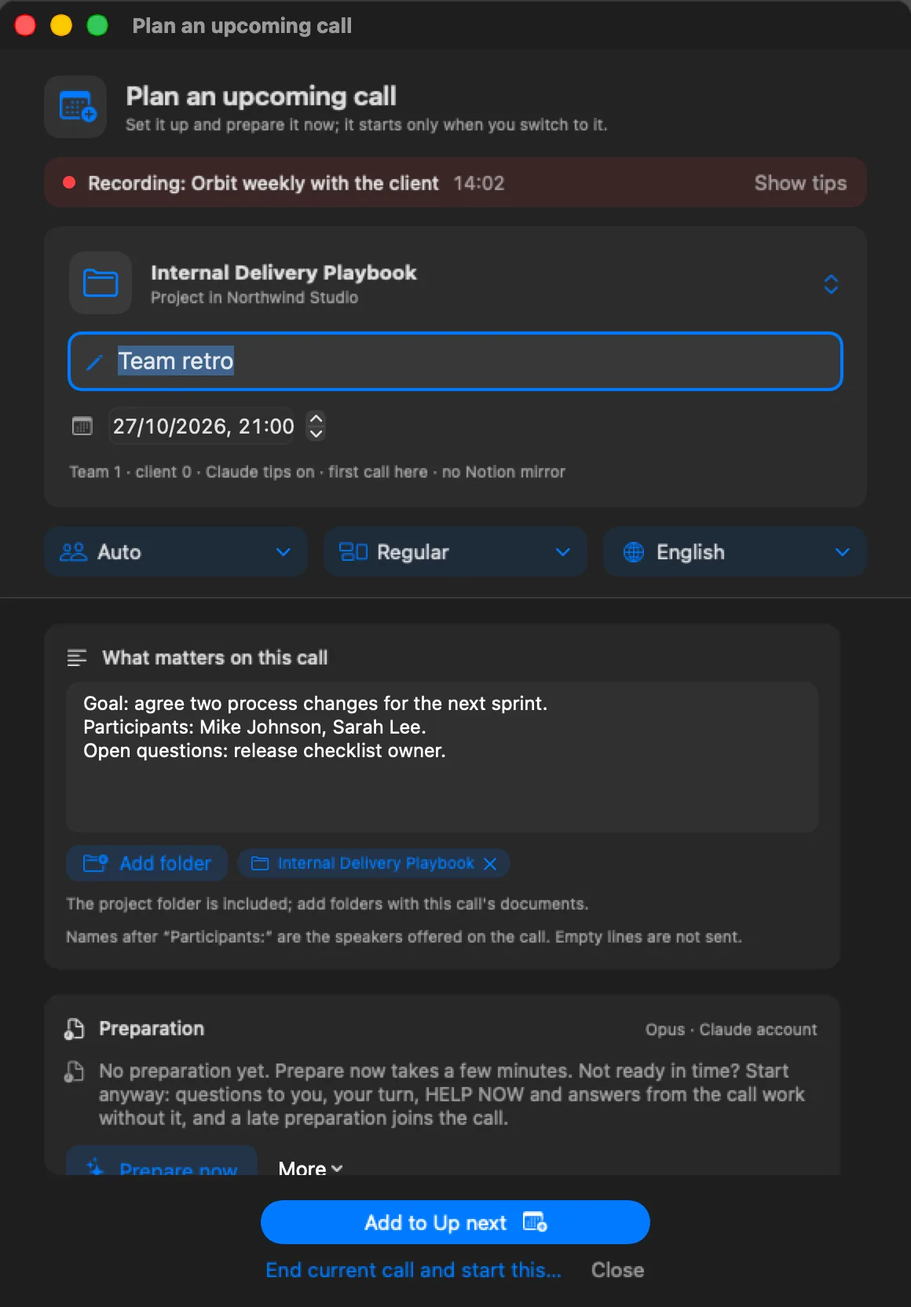
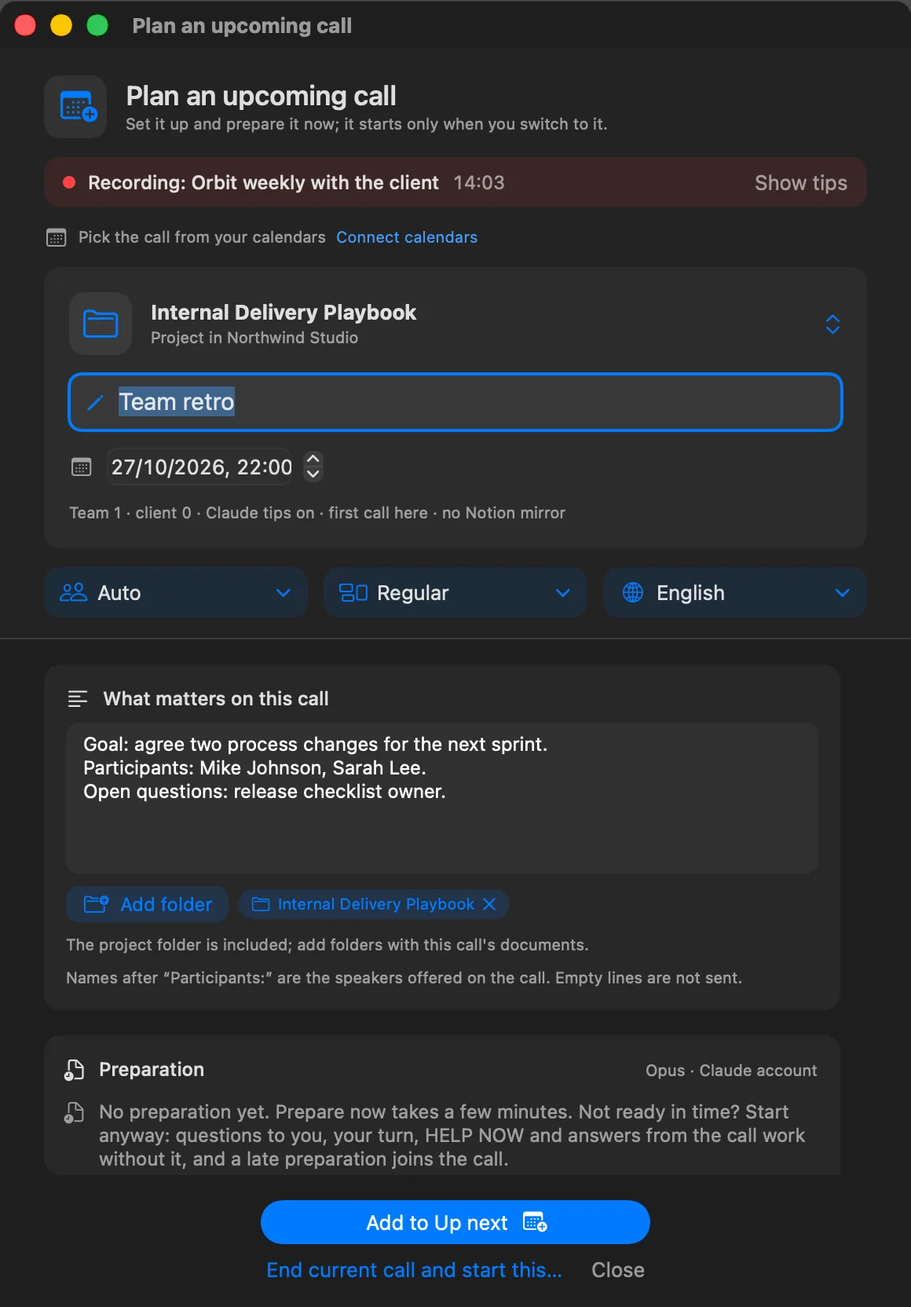
Live Tips 0.6.6 on the site: Claude and local AI block, Home and calendars
- /live-tips/: "Claude and local AI, each for its job" near the top; Home and calendars section; Home shot.
- Details: proactive button, top bar order, calendars and Home; compare and changelog updated; shots refreshed.

Claude-Session: https://claude.ai/code/session_011gj7yXV1CHodtL8oe3gkkZ

diff --git a/src/styles/global.css b/src/styles/global.css
@@ -510,3 +510,13 @@ html[data-theme='light'] .ltshot__img { box-shadow: 0 18px 44px rgba(20, 22, 28,
   .prose th:first-child, .prose td:first-child { position: sticky; left: 0; background: var(--bg); min-width: 110px; z-index: 1; }
   .product-hero .btns { display: grid; grid-template-columns: 1fr; }
 }
+
+/* 2026-10-27 (owner): Live Tips page, near the top: which AI does what (local models on the Mac, Claude in the cloud) */
+.aimix { border: 1px solid var(--line); border-left: 3px solid var(--accent); border-radius: 12px; padding: 18px 20px; margin: 4px 0 28px; background: var(--surface, transparent); }
+.aimix__title { margin: 0 0 4px; font-size: 1.15rem; }
+.aimix__lead { margin: 0 0 14px; color: var(--text-2); }
+.aimix__cols { display: grid; grid-template-columns: repeat(auto-fit, minmax(260px, 1fr)); gap: 14px 24px; }
+.aimix__col h4 { margin: 0 0 6px; font-size: 0.95rem; }
+.aimix__col ul { margin: 0; padding-left: 18px; color: var(--text-2); font-size: 0.95rem; }
+.aimix__col li { margin: 2px 0; }
+.aimix__note { margin: 12px 0 0; font-size: 0.88rem; color: var(--text-3); }

diff --git a/src/content/pages/uk/live-tips.md b/src/content/pages/uk/live-tips.md
@@ -7,8 +7,24 @@ facts:
   - { k: Звук, v: "Лишається на вашому Маку" }
   - { k: Вартість, v: "Застосунок безкоштовний, Claude близько $0.2-0.8 за дзвінок" }
   - { k: Нотатки йдуть у, v: "Notion і папку проєкту" }
-  - { k: Статус, v: "бета 0.6.0" }
+  - { k: Статус, v: "бета 0.6.6" }
 ---
+
+<div class="aimix">
+<h3 class="aimix__title">Claude і локальний AI, кожен для своєї роботи</h3>
+<p class="aimix__lead">Те, що має бути миттєвим і приватним, працює на вашому Маку. Те, що потребує думання, йде до Claude, лише текстом.</p>
+<div class="aimix__cols">
+<div class="aimix__col"><h4>На Маку (локальні моделі, безкоштовно)</h4><ul>
+<li><b>Whisper</b> перетворює мову на текст; аудіо не покидає Мак.</li>
+<li><b>Local AI</b> (невелика модель пошуку, вбудована або Ollama) за долю секунди знаходить факти й картки за змістом і шукає по файлах проєкту.</li>
+<li><b>Голосова модель</b> розрізняє спікерів.</li></ul></div>
+<div class="aimix__col"><h4>Claude (хмара, ваш ключ або план)</h4><ul>
+<li>Підказки і готова фраза, коли питають вас, HELP NOW, відповіді на ваші питання.</li>
+<li>Картина дзвінка: тема, що на вас, рішення.</li>
+<li>Prepare now і глибокий пошук (Claude Code, лише читання), підсумок у Notion.</li></ul></div>
+</div>
+<p class="aimix__note">Claude вимкнено для проєкту? Тоді працює лише частина на Маку: транскрипт, миттєві факти і пошук.</p>
+</div>
 
 ## Два способи запуску
 
@@ -45,6 +61,7 @@ facts:
 Справжні знімки застосунку на демо-даних. Картинки йдуть за світлою чи темною темою сайту.
 
 <div class="gallery">
+<figure class="ltshot ltshot--wide"><img class="ltshot__img ltshot--dark" src="/live-tips/shots/home-dark.webp" alt="" loading="lazy" decoding="async" /><img class="ltshot__img ltshot--light" src="/live-tips/shots/home-light.webp" alt="" loading="lazy" decoding="async" /><figcaption><b>Home.</b> Дзвінки попереду з календарів і Далі (накладки позначено), проведені дзвінки з Notion, транскриптом і папкою, і стан усього, що потрібно для дзвінка.</figcaption></figure>
 <figure class="ltshot ltshot--wide"><img class="ltshot__img ltshot--dark" src="/live-tips/shots/tips-dark.webp" alt="" loading="lazy" decoding="async" /><img class="ltshot__img ltshot--light" src="/live-tips/shots/tips-light.webp" alt="" loading="lazy" decoding="async" /><figcaption><b>На дзвінку.</b> Транскрипт з іменами спікерів (Команда чи Клієнт), що на вас, підсумок дзвінка, відповіді на ваші питання і кнопка Help.</figcaption></figure>
 <figure class="ltshot"><img class="ltshot__img ltshot--dark" src="/live-tips/shots/start-call-dark.webp" alt="" loading="lazy" decoding="async" /><img class="ltshot__img ltshot--light" src="/live-tips/shots/start-call-light.webp" alt="" loading="lazy" decoding="async" /><figcaption><b>Start call.</b> Проєкт, назва і час дзвінка, аудиторія, тип і мови, що важливо на цьому дзвінку і які папки прочитати, Prepare now.</figcaption></figure>
 <figure class="ltshot"><img class="ltshot__img ltshot--dark" src="/live-tips/shots/plan-call-dark.webp" alt="" loading="lazy" decoding="async" /><img class="ltshot__img ltshot--light" src="/live-tips/shots/plan-call-light.webp" alt="" loading="lazy" decoding="async" /><figcaption><b>Далі.</b> Під час дзвінка плануйте наступний: налаштуйте і підготуйте зараз, перейдіть на нього, коли цей закінчиться.</figcaption></figure>
@@ -54,6 +71,12 @@ facts:
 <figure class="ltshot"><img class="ltshot__img ltshot--dark" src="/live-tips/shots/settings-notion-dark.webp" alt="" loading="lazy" decoding="async" /><img class="ltshot__img ltshot--light" src="/live-tips/shots/settings-notion-light.webp" alt="" loading="lazy" decoding="async" /><figcaption><b>Налаштування: Notion.</b> Сторінка зустрічі після кожного дзвінка, куди вона йде, і необовʼязкова локальна копія Notion.</figcaption></figure>
 <figure class="ltshot"><img class="ltshot__img ltshot--dark" src="/live-tips/shots/settings-projects-dark.webp" alt="" loading="lazy" decoding="async" /><img class="ltshot__img ltshot--light" src="/live-tips/shots/settings-projects-light.webp" alt="" loading="lazy" decoding="async" /><figcaption><b>Налаштування: Projects.</b> Воркспейси і проєкти з вашої робочої папки; позначені зʼявляються в Start call.</figcaption></figure>
 </div>
+
+## Home і ваші календарі
+
+**Home** це головне вікно аппки: дзвінок, що йде зараз, дзвінки попереду з календарів і зі списку Далі з їхньою підготовкою, і проведені дзвінки зі сторінкою в Notion, транскриптом і папкою (прибрати зі списку можна ×; файли лишаються). Внизу: ключ Claude, витрати за місяць проти ліміту, копія Notion, локальний AI і календарі.
+
+**Календарі через macOS, кілька акаунтів одразу.** Додайте акаунти Google і Microsoft у System Settings > Internet Accounts, потім у Live Tips Settings > Calendars позначте календарі, де ваші дзвінки. Нічого не треба встановлювати і ніде окремо входити; Live Tips лише читає. Дві-три зустрічі на один час це нормально: Home їх позначає, а ви готуєте і запускаєте ту, на яку реально йдете. Регулярна зустріч стартує з налаштувань і тексту "що важливо" її останнього дзвінка, тож ви лише коригуєте.
 
 ## Дзвінки один за одним: Далі
 
@@ -80,6 +103,6 @@ facts:
 <div class="card"><h3 class="card__title"><a href="https://github.com/bodco/live-tips">Код і релізи</a></h3><p class="card__text">Застосунок, скіл, записувач і повний посібник на GitHub. Що змінилося: <a href="/uk/changelog/">версії</a>.</p></div>
 </div>
 
-Ще немає: звʼязку з календарем, пропозиції почати запис, коли починається дзвінок, підсумку в Google Docs. У планах; поки кожен дзвінок починається з рядка меню.
+Ще немає: підсумку в Google Docs чи Word у вашому Drive або OneDrive. У планах.
 
 <p class="smallprint">Ваші дзвінки і ваші дані: <a href="/uk/live-tips/privacy/">політика конфіденційності</a> і <a href="/uk/live-tips/terms/">умови використання</a>.</p>

diff --git a/src/content/pages/en/live-tips.md b/src/content/pages/en/live-tips.md
@@ -7,8 +7,24 @@ facts:
   - { k: Audio, v: "Stays on your Mac" }
   - { k: Cost, v: "Free app, about $0.2-0.8 of Claude per call" }
   - { k: Notes go to, v: "Notion and your project folder" }
-  - { k: Status, v: "beta 0.6.0" }
+  - { k: Status, v: "beta 0.6.6" }
 ---
+
+<div class="aimix">
+<h3 class="aimix__title">Claude and local AI, each for its job</h3>
+<p class="aimix__lead">What must be instant and private runs on your Mac. What needs real thinking goes to Claude, as text only.</p>
+<div class="aimix__cols">
+<div class="aimix__col"><h4>On your Mac (local models, free)</h4><ul>
+<li><b>Whisper</b> turns speech into text; audio never leaves the Mac.</li>
+<li><b>Local AI</b> (a small search model, built in or Ollama) finds facts and cards by meaning in under a second and searches your project files.</li>
+<li><b>A voice model</b> tells speakers apart.</li></ul></div>
+<div class="aimix__col"><h4>Claude (cloud, your key or plan)</h4><ul>
+<li>Tips and the ready phrase when you are asked, HELP NOW, answers to your questions.</li>
+<li>The picture of the call: topic, what is on you, decisions.</li>
+<li>Prepare now and deep search (Claude Code, read-only), the Notion summary.</li></ul></div>
+</div>
+<p class="aimix__note">Claude off for a project? It runs on the Mac part only: transcript, instant facts and search.</p>
+</div>
 
 ## Two ways to run it
 
@@ -45,6 +61,7 @@ Both run the same rules and the same recorder, so the tips behave the same way. 
 Real screenshots of the app on demo data. The pictures follow the site's light or dark theme.
 
 <div class="gallery">
+<figure class="ltshot ltshot--wide"><img class="ltshot__img ltshot--dark" src="/live-tips/shots/home-dark.webp" alt="" loading="lazy" decoding="async" /><img class="ltshot__img ltshot--light" src="/live-tips/shots/home-light.webp" alt="" loading="lazy" decoding="async" /><figcaption><b>Home.</b> The calls ahead from your calendars and Up next (overlaps marked), the calls already held with Notion, transcript and folder, and what a call needs.</figcaption></figure>
 <figure class="ltshot ltshot--wide"><img class="ltshot__img ltshot--dark" src="/live-tips/shots/tips-dark.webp" alt="" loading="lazy" decoding="async" /><img class="ltshot__img ltshot--light" src="/live-tips/shots/tips-light.webp" alt="" loading="lazy" decoding="async" /><figcaption><b>On the call.</b> The transcript with named speakers (Team or Client), what is on you, the call summary, answers to your questions and the Help button.</figcaption></figure>
 <figure class="ltshot"><img class="ltshot__img ltshot--dark" src="/live-tips/shots/start-call-dark.webp" alt="" loading="lazy" decoding="async" /><img class="ltshot__img ltshot--light" src="/live-tips/shots/start-call-light.webp" alt="" loading="lazy" decoding="async" /><figcaption><b>Start call.</b> The project, the call's name and time, audience, type and languages, what matters on this call and the folders to read, Prepare now.</figcaption></figure>
 <figure class="ltshot"><img class="ltshot__img ltshot--dark" src="/live-tips/shots/plan-call-dark.webp" alt="" loading="lazy" decoding="async" /><img class="ltshot__img ltshot--light" src="/live-tips/shots/plan-call-light.webp" alt="" loading="lazy" decoding="async" /><figcaption><b>Up next.</b> During a call, plan the next one: set it up and prepare it now, switch to it when this call ends.</figcaption></figure>
@@ -54,6 +71,12 @@ Real screenshots of the app on demo data. The pictures follow the site's light o
 <figure class="ltshot"><img class="ltshot__img ltshot--dark" src="/live-tips/shots/settings-notion-dark.webp" alt="" loading="lazy" decoding="async" /><img class="ltshot__img ltshot--light" src="/live-tips/shots/settings-notion-light.webp" alt="" loading="lazy" decoding="async" /><figcaption><b>Settings: Notion.</b> The meeting page after each call, where it goes, and the optional local copy of Notion.</figcaption></figure>
 <figure class="ltshot"><img class="ltshot__img ltshot--dark" src="/live-tips/shots/settings-projects-dark.webp" alt="" loading="lazy" decoding="async" /><img class="ltshot__img ltshot--light" src="/live-tips/shots/settings-projects-light.webp" alt="" loading="lazy" decoding="async" /><figcaption><b>Settings: Projects.</b> Workspaces and projects found in your work folder; ticked ones show up in Start call.</figcaption></figure>
 </div>
+
+## Home and your calendars
+
+**Home** is the app's main window: the call that is live, the calls ahead from your calendars and Up next with their preparation, and the calls already held with their Notion page, transcript and folder (remove one from the list with ×; the files stay). At the bottom: the Claude key, this month's spend against your limit, the Notion copy, local AI and the calendars.
+
+**Calendars through macOS, several accounts at once.** Add your Google and Microsoft accounts in System Settings > Internet Accounts, then Settings > Calendars in Live Tips: tick the calendars that have your calls. Nothing to install and no extra sign-in; Live Tips only reads. Two or three meetings at the same time are normal: Home marks them, and you prepare and start the one you actually go to. A regular meeting starts from the settings and the "what matters" text of its last call, so you only correct them.
 
 ## Back-to-back calls: Up next
 
@@ -80,6 +103,6 @@ Those are mature note takers with team workspaces, video and many integrations. 
 <div class="card"><h3 class="card__title"><a href="https://github.com/bodco/live-tips">Code and releases</a></h3><p class="card__text">The app, the skill, the recorder and the full guide on GitHub. What changed: the <a href="/changelog/">changelog</a>.</p></div>
 </div>
 
-Not there yet: a calendar link, a prompt to start recording when a call begins, the summary in Google Docs. Planned; today each call starts from the menu bar.
+Not there yet: the summary in Google Docs or Word in your Drive or OneDrive. Planned.
 
 <p class="smallprint">Your calls and your data: <a href="/live-tips/privacy/">privacy policy</a> and <a href="/live-tips/terms/">terms of use</a>.</p>

diff --git a/src/content/pages/uk/live-tips-details.md b/src/content/pages/uk/live-tips-details.md
@@ -115,6 +115,10 @@ facts:
 
 **Не встигли підготуватися? Все одно починайте.** Підготовка робить підказки багатшими, але не обовʼязкова. Без неї ви все одно отримуєте червоні підказки, коли звертаються до вас (питання до вас, ваша черга, нова вимога, дата, яку обіцяють), HELP NOW, відповіді на введені питання, пошук по папці проєкту, On me і сторінку зустрічі після дзвінка. Питання, на яке ніщо готове не відповідає, отримує речення, яке можна сказати одразу ("дайте хвилину, я перевірю"), і запускає глибший пошук лише для читання: Claude Code читає папку проєкту, локальну копію Notion і попередні дзвінки, а відповідь приходить новою карткою, зазвичай за 15-60 секунд. До появи підготовки бракує лише картки спічу і миттєвих карток фактів. Підготовка, що завершилась уже після старту, підключається сама, тож запізнення коштує тихіших перших хвилин, а не дзвінка. Два рядки в Call context (мета, на що дивитись) вже допомагають.
 
+**Ініціативні підказки під час дзвінка.** Кнопка 💡 у верхній панелі вмикає й вимикає ініціативні підказки (ідеї, що додати: відповідальний чи дата, яких бракує, факт до теми) без ⚙. Верхня панель тепер читається зліва направо: крапка, назва і таймер; далі те, що роблять підказки (💡 ініціативні, ⏸ пауза), і ваш мікрофон (🎙); далі вигляд (транскрипт, ⚙). End call окремо, у заголовку вікна, і завжди питає.
+
+**Календарі і Home.** Settings > Calendars: додайте акаунти в System Settings > Internet Accounts (кілька акаунтів Google і Microsoft можна), підключіть і позначте календарі з вашими дзвінками. Start call показує дзвінки навколо поточного часу чипами (йде, за 5 хв, ті, що накладаються, теж); клік заповнює назву, час, учасників, а для регулярної зустрічі все з її останнього дзвінка. Home показує дзвінки попереду з Prepare, Set up, Start чи Switch і недавні дзвінки з Notion, Transcript і Show in Finder. Нагадування перед дзвінками з календаря необовʼязкове і за замовчуванням вимкнене.
+
 **Дзвінки один за одним: Далі.** Під час дзвінка Start call стає **Plan an upcoming call**: те саме вікно з червоним рядком "Recording: ..." зверху, щоб було видно, що воно нічого не запускає. **Add to Up next** зберігає дзвінок, **Prepare** пише його підготовку, поки ви говорите (по одній; решта чекає в черзі), а **End current call and start this...** перемикає після одного питання. У вікні-суфлері ⚙ > Далі показує заплановані дзвінки з їхньою підготовкою (Змінити, Підготувати, Перейти, ×), а док показує наступний з кнопкою **Перейти...**. End call пропонує "End and start <наступний дзвінок>", а після кінця дзвінка зелена кнопка **Start next** одразу запускає наступний. Список зберігається після перезапуску аппки. Підготовка приєднується лише до свого дзвінка.
 
 **Крапка біля назви дзвінка** показує запис: сіра, поки чекає на дзвінок або на паузі; синя, поки запис запускається чи зупиняється (між натисканням Start і першою транскрибованою секундою); червона, що блимає, поки йде запис; помаранчева, коли проблема з мікрофоном; зелена, коли запис зупинено і транскрипт збережено.

diff --git a/src/content/pages/uk/changelog.md b/src/content/pages/uk/changelog.md
@@ -12,6 +12,7 @@ facts:
 
 | Версія | Дата | Що змінилось |
 |---|---|---|
+| Live Tips 0.6.6 beta | 2026-10-27 | **Home**, головне вікно аппки: живий дзвінок, дзвінки попереду (календарі і Далі, накладки позначено, Prepare, Set up, Start чи Switch), недавні дзвінки (Notion, транскрипт, папка; × ховає) і стан ключа, витрат, копії Notion, локального AI і календарів. **Календарі через macOS**, кілька акаунтів Google і Microsoft одразу, Settings > Calendars, щоб обрати потрібні; Start call бере дзвінок із чипів навколо поточного часу. **Регулярні зустрічі** стартують з налаштувань свого останнього дзвінка. **💡 Ініціативні підказки** у верхній панелі вікна-суфлера і зрозуміліший порядок кнопок. |
 | Live Tips 0.6.5 beta | 2026-10-27 | **Далі: дзвінки один за одним.** Під час дзвінка плануйте скільки завгодно наступних дзвінків і готуйте їх (підготовки йдуть одна за одною), потім перемикайтесь: одне питання, поточний дзвінок коректно завершується (транскрипт, підсумок у Notion), а наступний стартує зі своєю підготовкою. З рядка меню або з вікна-суфлера (⚙ > Далі, чип у доку, End call, Start next). Підготовка приєднується лише до свого дзвінка. **Крапка статусу**: сіра (чекає або пауза), синя (запуск чи зупинка), червона (запис), зелена (зупинено, збережено); вікно читає статус рекордера кожні 0,5 с замість 2 с. |
 | Live Tips 0.6.4 beta | 2026-10-27 | **Політика конфіденційності і умови використання**: одна пара для [PM Control Tower і цього сайту](/uk/privacy/) ([умови](/uk/terms/)) і одна для [Live Tips](/uk/live-tips/privacy/) ([умови](/uk/live-tips/terms/)), також в обох репозиторіях. Аппка показує коротку версію в Settings > About > Your data. Сайт завантажує Google Analytics лише після вашого дозволу; "Налаштування аналітики" у футері змінює вибір. |
 | Live Tips 0.6.3 beta | 2026-10-27 | **Спікери зі стороною:** Команда чи Клієнт і проєкти або воркспейси, на яких людину пропонують (кілька одразу); вкладка транскрипту показує, хто вже говорив, щоб дати імʼя і сторону. **Notion:** транскрипт це дочірня сторінка сторінки зустрічі, а не файл. **Новий дзвінок** просто з вікна підказок, коли дзвінок закінчився. |

diff --git a/src/content/pages/en/live-tips-details.md b/src/content/pages/en/live-tips-details.md
@@ -115,6 +115,10 @@ With [Ollama](https://ollama.com) and a small multilingual embedding model (`bge
 
 **No time to prepare? Start anyway.** A preparation makes tips richer, it is not required. Without it you still get the red tips when you are addressed (a question to you, your turn, a new request, a date being promised), HELP NOW, answers to questions you type, a search over the project folder, On me and the meeting page after the call. A question nothing ready answers gets a sentence you can say at once ("give me a minute, I will check") and starts a deeper, read-only search: Claude Code reads the project folder, the local Notion copy and earlier calls, and the answer arrives as a new card, usually in 15-60 seconds. Missing until a preparation arrives: the speech card and the instant fact cards. A preparation that finishes after the start joins the call by itself, so a late one costs you a quieter first few minutes, not the call. Two lines in Call context (the goal, what to look for) already help.
 
+**Proactive tips during the call.** The 💡 button in the top bar switches proactive tips (ideas to add: a missing owner or date, a fact worth mentioning) on and off without opening ⚙. The top bar now reads left to right: the dot, the title and the timer; then what the tips do (💡 proactive, ⏸ pause) and your mic (🎙); then the view (transcript, ⚙). End call stays apart, in the window's title bar, and always asks first.
+
+**Calendars and Home.** Settings > Calendars: add accounts in System Settings > Internet Accounts (several Google and Microsoft accounts are fine), connect, and tick the calendars with your calls. Start call then shows the calls around now as chips (in progress, in 5 min, overlapping ones too); a click fills the title, time, participants and, for a regular meeting, everything from its last call. Home lists the calls ahead with Prepare, Set up, Start or Switch, and the recent calls with Notion, Transcript and Show in Finder. An optional reminder before calendar calls is off by default.
+
 **Back-to-back calls: Up next.** During a call, Start call becomes **Plan an upcoming call**: the same window with a red "Recording: ..." line on top, so it is clear it does not start anything. **Add to Up next** keeps the call, **Prepare** writes its preparation while you talk (one at a time; the others wait in line), and **End current call and start this...** switches after one question. In the tips window, ⚙ > Up next lists the planned calls with their preparation (Edit, Prepare, Switch, ×), and the dock shows the next one with a **Switch...** button. End call offers "End and start <next call>", and after a call ends the green **Start next** button starts the next call at once. The list is kept when the app restarts. A preparation joins only the call it was made for.
 
 **The dot next to the call's name** shows the recording: grey while waiting for the call or paused, blue while the recording starts or stops (between pressing Start and the first transcribed second), blinking red while it records, orange when the microphone has a problem, green when it has stopped and the transcript is saved.

diff --git a/src/content/pages/en/changelog.md b/src/content/pages/en/changelog.md
@@ -12,6 +12,7 @@ facts:
 
 | Version | Date | What changed |
 |---|---|---|
+| Live Tips 0.6.6 beta | 2026-10-27 | **Home**, the app's main window: the live call, the calls ahead (calendars and Up next, overlaps marked, Prepare, Set up, Start or Switch), recent calls (Notion, transcript, folder; × hides one) and the state of key, spend, Notion copy, local AI and calendars. **Calendars through macOS**, several Google and Microsoft accounts at once, Settings > Calendars to pick the relevant ones; Start call picks the call from chips around now. **Regular meetings** start from the settings of their last call. **💡 Proactive tips** in the top bar of the tips window, and a clearer button order. |
 | Live Tips 0.6.5 beta | 2026-10-27 | **Up next: back-to-back calls.** During a call, plan any number of upcoming calls and prepare them (preparations run one after another), then switch: one question, the current call ends properly (transcript, Notion summary) and the next starts with its preparation. From the menu bar or the tips window (⚙ > Up next, a chip in the dock, End call, Start next). A preparation joins only its own call. **The status dot** shows grey (waiting or paused), blue (starting or stopping), red (recording), green (stopped, saved); the window reads the recorder's status every 0.5 s instead of 2 s. |
 | Live Tips 0.6.4 beta | 2026-10-27 | **Privacy policy and terms of use**, one pair for [PM Control Tower and this site](/privacy/) ([terms](/terms/)) and one for [Live Tips](/live-tips/privacy/) ([terms](/live-tips/terms/)), also in both repositories. The app shows the short version under Settings > About > Your data. The site loads Google Analytics only after you allow it; "Analytics settings" in the footer changes the choice. |
 | Live Tips 0.6.3 beta | 2026-10-27 | **Speakers with a side:** Team or Client, and the projects or workspaces a person is suggested on (several at once); the transcript tab lists who has spoken, to name each voice and set the side. **Notion:** the transcript is a child page of the meeting page, not a file. **New call** straight from the tips window when a call ends. |

diff --git a/src/content/pages/uk/live-tips-compare.md b/src/content/pages/uk/live-tips-compare.md
@@ -66,9 +66,8 @@ facts:
 
 ## Чого в Live Tips ще немає
 
-У планах, ще не зроблено. Сьогодні кожен дзвінок починаєш вручну з рядка меню.
+У планах, ще не зроблено. З 0.6.6 календарі вже є (Google, Microsoft і iCloud через macOS, кілька акаунтів): обираєш дзвінок у Home чи Start call і тиснеш Start.
 
-- **Календар.** Брати назву зустрічі, час і людей з Google Calendar.
 - **Пропозиція почати запис.** Помічати, що дзвінок почався (Zoom, Meet чи Teams беруть мікрофон), і пропонувати почати запис, як Fireflies, Notion і Fathom.
 - **Підсумок без Notion.** Зберігати підсумок у Google Docs чи Drive або документом у папці проєкту.
 

diff --git a/src/content/pages/en/live-tips-compare.md b/src/content/pages/en/live-tips-compare.md
@@ -66,9 +66,8 @@ An honest comparison, written by the person who builds Live Tips. The other thre
 
 ## Not there yet in Live Tips
 
-Planned, not built. Today you start each call by hand from the menu bar.
+Planned, not built. Since 0.6.6 the calendars are in (Google, Microsoft and iCloud through macOS, several accounts): you pick the call in Home or Start call and press Start.
 
-- **Calendar.** Pick up the meeting title, time and people from Google Calendar.
 - **Start prompt.** Notice that a call has started (Zoom, Meet or Teams takes the microphone) and offer to start recording, like Fireflies, Notion and Fathom.
 - **Summary without Notion.** Save the summary to Google Docs or Drive, or a document in the project folder.
 
